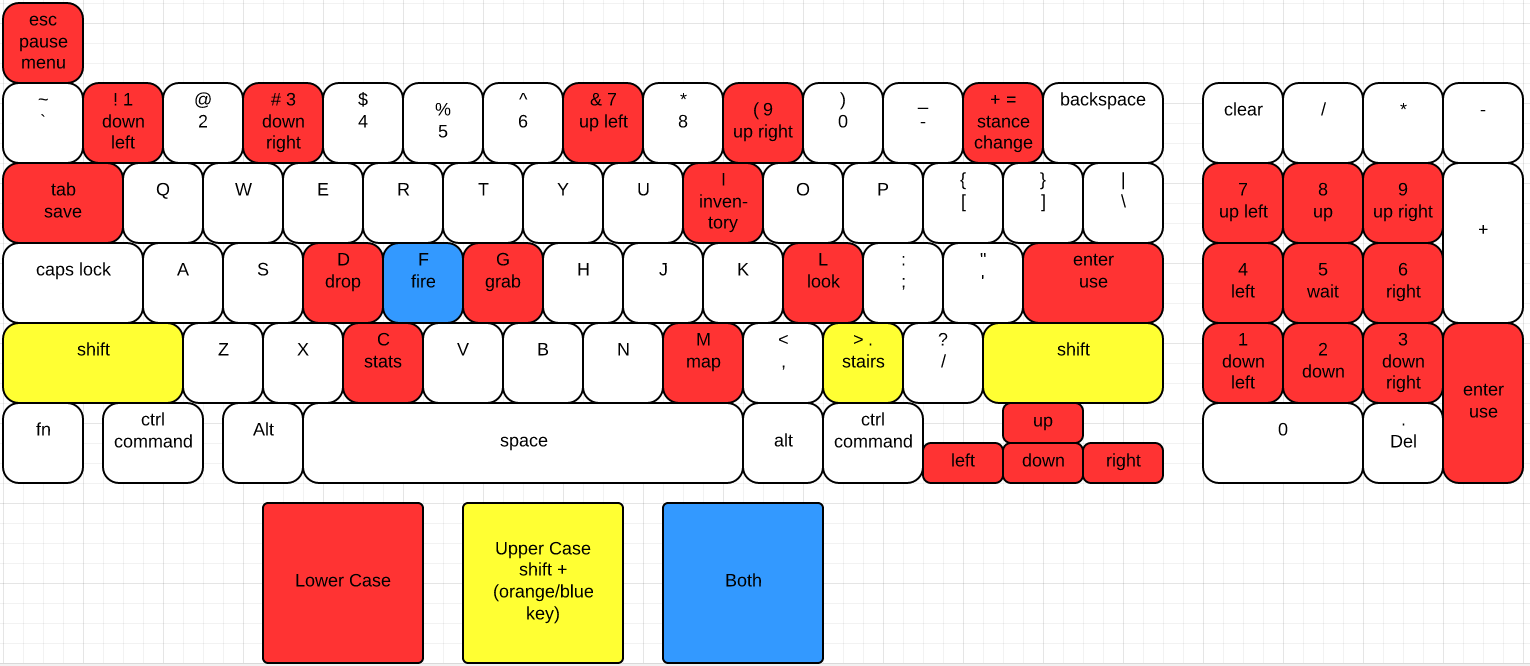
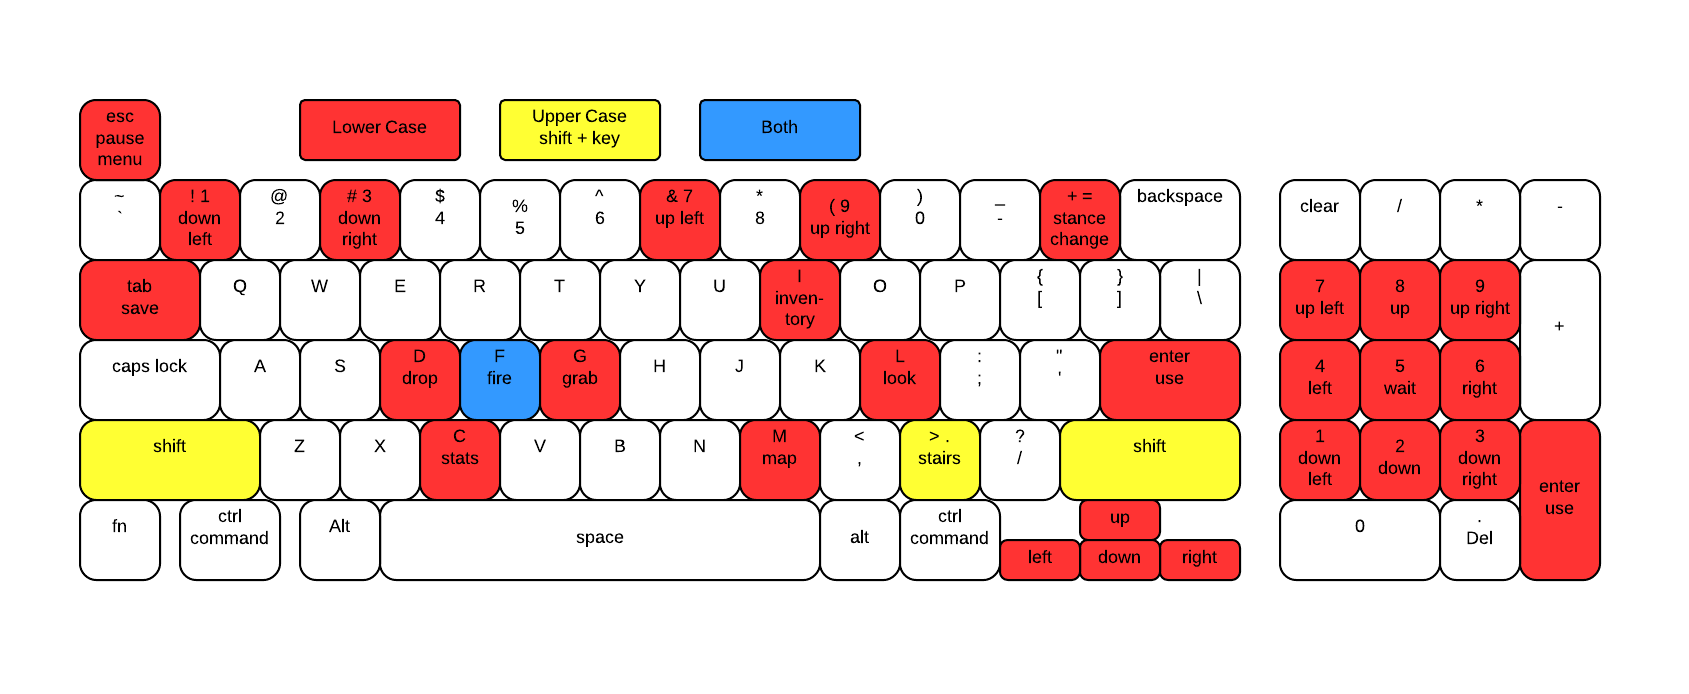
Changed keyboardControls image and editied grammer error in Xbox description

diff --git a/index.html b/index.html
@@ -101,9 +101,9 @@
 			<p>
 				Playing the game can either be done on a keyboard or with an Xbox 360 Controller.
 			</p>
-			<h2>QWERTY Keyboard</h2>
-			<p>	<img src="website/keyboardControls.png" alt="Keyboard Controls" width="1100">
-			</p>
+			<h2>QWERTY Keyboard
+			<img src="website/keyboardControls.png" alt="Keyboard Controls" width="1000">
+			</h2>
 			<!-- 
 <h3>
 				<center><b>
@@ -175,7 +175,7 @@
 			<h2>
 				Xbox 360 Controller
 				<pin>
-					To use an Xbox 360 Controller, it will need to have a wired controller connected to your machine via USB port.
+					To use an Xbox 360 Controller, it will need to be a wired controller connected to your machine via USB port.
 				</pin>
 			</h2>
 			<h1>

diff --git a/astroStyleSheet.css b/astroStyleSheet.css
@@ -65,7 +65,7 @@ h1
 {
 color:green;
 text-align:left;
-font-size:50px;
+font-size:40px;
 margin-left: 400px;
 margin-right: 400px;
 position: relative;
@@ -102,7 +102,7 @@ p
 {
 color:white;
 text-align:justify;
-font-size:20px;
+font-size:16px;
 display:  block;
 margin-left: 400px;
 margin-right: 400px;
@@ -132,7 +132,7 @@ pin
 {
 color:white;
 text-align:justify;
-font-size:20px;
+font-size:16px;
 display:  block;
 position: relative;
 }
